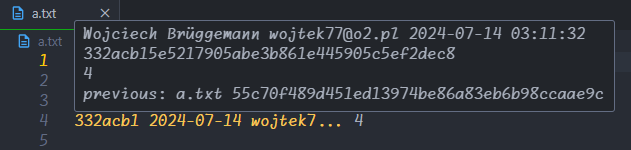
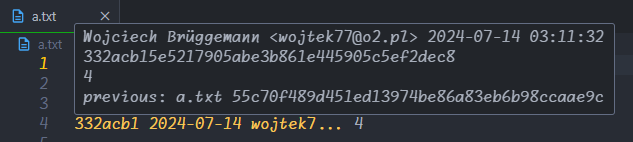
add angle brackets to email in hover

Changed region(s): [[0.0, 0.0282, 0.9937, 1.0]]

diff --git a/src/DecorationDataBase.ts b/src/DecorationDataBase.ts
@@ -92,14 +92,14 @@ export class DecorationDataBase {
         if (rec.isDiffAuthorCommitter) {
             const datetimeAuthor = util.datetime(rec.authorTime);
             const datetimeCommitter = util.datetime(rec.committerTime);
-            text += `author: ${rec.author} ${rec.authorMail} ${datetimeAuthor}`;
+            text += `author: ${rec.author} <${rec.authorMail}> ${datetimeAuthor}`;
             text += '\n';
-            text += `committer: ${rec.committer} ${rec.committerMail} ${datetimeCommitter}`;
+            text += `committer: ${rec.committer} <${rec.committerMail}> ${datetimeCommitter}`;
             text += '\n';
             text += `${rec.hash}`;
         } else {
             const datetime = util.datetime(rec.authorTime);
-            text += `${rec.author} ${rec.authorMail} ${datetime}`;
+            text += `${rec.author} <${rec.authorMail}> ${datetime}`;
             text += '\n';
             text += `${rec.hash}`;
         }
@@ -111,7 +111,7 @@ export class DecorationDataBase {
         }
         /* https://stackoverflow.com/questions/75542879/how-to-add-styled-text-in-vscode-markdownstring */
         const m = new vscode.MarkdownString();
-        m.appendCodeblock(text, 'text');
+        m.appendCodeblock(text, 'plaintext'); // "plaintext" for better performance
         return m;
     }
 }

diff --git a/README.md b/README.md
@@ -28,3 +28,6 @@ gitBlameW77.runGitGuiBlameForFile | Run Git Gui Blame For File | ctrl + shift + 
 | name | description |
 | - | - |
 gitBlameW77.colors | Specifies colors for the blame decoration. If use empty array then is setup color 'editor.foreground' from theme.
+
+## Other
+Colors made by [Bluloco Dark Theme](https://marketplace.visualstudio.com/items?itemName=uloco.theme-bluloco-dark).
